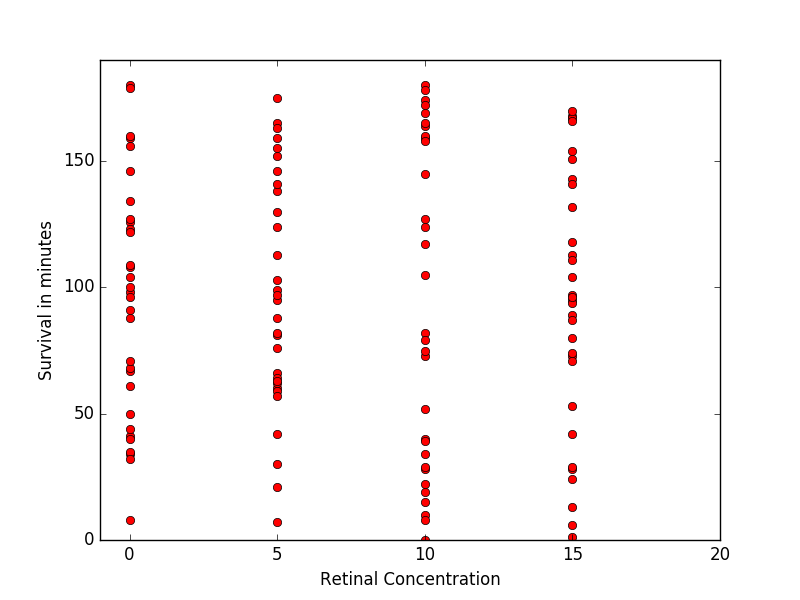
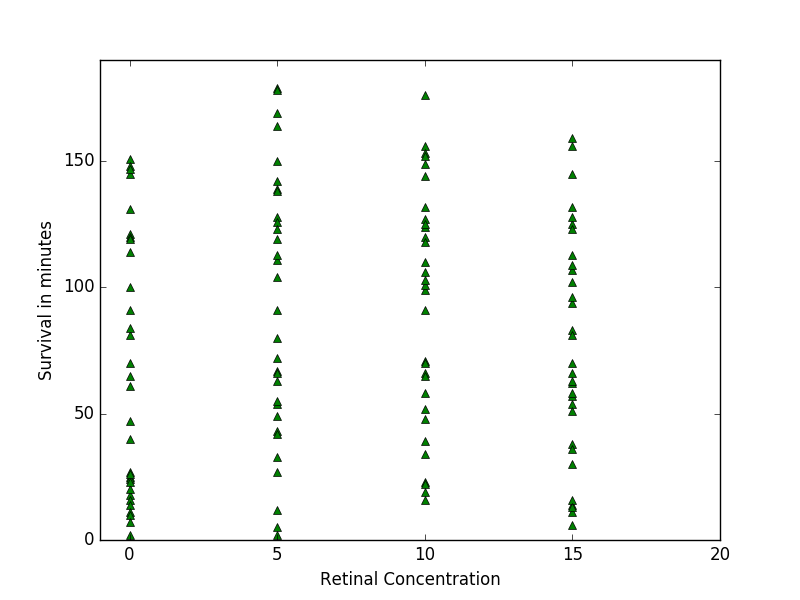
modified readme

diff --git a/data_plot.py b/data_plot.py
@@ -3,7 +3,11 @@
 import matplotlib.pyplot as plt
 
 
+
+
 with open('data.txt', 'r') as infile:
+
+	
 
 	for line in infile:
 		Concentration = line.split ( '[' )[ 0 ]
@@ -19,11 +23,11 @@ with open('data.txt', 'r') as infile:
 		dots=[svalues_list]
 		y = [Concentration]
 
-		plt.plot( y, dots, 'ro')
+		plt.plot( y, dots, 'g^')
 		plt.axis([ -1, 20, 0, 190])
 		plt.xlabel('Retinal Concentration')
 		plt.ylabel('Survival in minutes')
 
-	#plt.show()
+	plt.show()
 
-	plt.savefig( 'data_plot.png' )
+	#plt.savefig( 'data_plot.png' )

diff --git a/data_simulator.py b/data_simulator.py
@@ -3,7 +3,7 @@
 #random sample generation for retinal concentration
 
 import random
-import numpy as np
+#import numpy as np
 
 
 outfile = open( "data.txt","w" )

diff --git a/readme.md b/readme.md
@@ -9,32 +9,34 @@
 ## Introduction and Goals
 
 The annelida phylum contains a great amount of variability in body plans. Many times, adaptation to novel environments resulted in a changes in body plan. This recurrent episodes of body plan evolution make them a good model for also understanding the evolution of Bilateria.
-The marine annelid *Platynereis dumerilli* 
 
-*The goal of my project is to answer the question, What is...?*
-What is the best concentration of retinal to use taking into account survival time and imaging efficiency.
+The goal of my project is to answer the question: What is the most suitable concentration of retinal for maximum survival?
 
-To assess the survival of Platynereis larvae after addition of the toxic retinal, Python will be used to simulate a dataset. Afterwards, this dataset will be plotted against several concentration values for better visualisation of the best concentration for future studies.
+To assess the survival of Platynereis larvae after adding the toxic retinal, Python will be used to simulate a dataset. Afterwards, this dataset will be plotted against several concentration values for choosing the best concentration.
 
 
 ## **Methods**
 
-The random module was used for generating numbers
-I installed SimPy
+The random module was used for generating numbers. The generated data was used for plotting a graph from the matplotlib.pyplot module.
 
 
 ## **Results**
 
-In Figure 1...
+![Figure 2 - data_graph_fig](./data_plot.png?raw=true)
 
 ## Discussion
 
-These results indicate...
 
-The biggest difficulty in implementing these analyses was...
+It would be cool to have (maybe with R?) an equation to compute significance between concentrations.
 
-If I did these analyses again, I would...
+The colour red is not my favourite.
+
 
 ## References
 
+http://link.springer.com/article/10.1007/s13127-016-0265-7
+
+https://www.python.org/
+
+http://matplotlib.org/index.html
 
